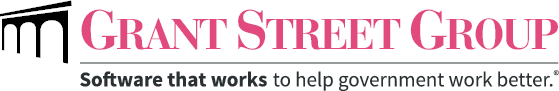
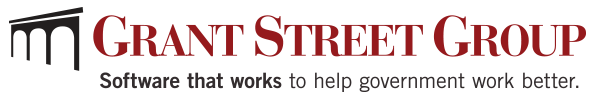
Adding new sponsors
Grant Street Group

diff --git a/index.html b/index.html
@@ -152,6 +152,10 @@ layout: default
           <img class='sponsor'
                alt='SIG'
                src='/img/sponsors/sig.png' />
+        </div><div class='third'>
+          <img class='sponsor'
+               alt='SIG'
+               src='/img/sponsors/gsg.png' />
         </div>
       </div>
     </div>
